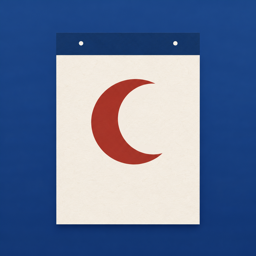
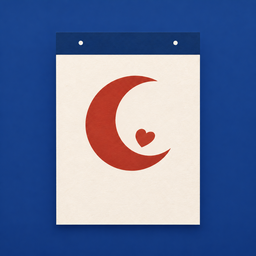
음력 기준(한국/대만·홍콩) 안내, 다국어 이름, 새 아이콘

Changed region(s): [[0.2188, 0.1562, 0.7812, 0.9062], [0.3125, 0.2812, 0.6562, 0.6875], [0.6562, 0.5625, 0.6875, 0.5938]]

diff --git a/index.html b/index.html
@@ -21,7 +21,7 @@
     </div>
   </header>
 
-  <p class="summary">음력 날짜를 한 번만 넣으면 매년 양력 날짜를 찾아 홈 화면 위젯과 알림으로 먼저 알려 드립니다. 광고·구독·회원가입이 없습니다.</p>
+  <p class="summary">Lunar Keeper · 旧暦メモ · 農曆知己 — 음력 날짜를 한 번만 넣으면 매년 양력 날짜를 찾아 홈 화면 위젯과 알림으로 먼저 알려 드립니다. 광고·구독·회원가입이 없습니다.</p>
 
   <h2>이렇게 써요</h2>
   <div class="card">
@@ -36,7 +36,9 @@
   <h2>자주 묻는 질문</h2>
   <dl>
     <dt>음력 날짜는 얼마나 정확한가요?</dt>
-    <dd>한국천문연구원 음양력 자료와 1940년부터 2050년까지 모든 날짜를 하나하나 대조했습니다. 계산은 인터넷 없이 휴대폰 안에서 합니다.</dd>
+    <dd>한국 음력은 한국천문연구원 자료와, 대만·홍콩 농력은 홍콩천문대 표와 1940년부터 2050년까지 모든 날짜를 하나하나 대조했습니다. 계산은 인터넷 없이 휴대폰 안에서 합니다.</dd>
+    <dt>한국 음력과 대만·홍콩 농력이 다르다던데요?</dt>
+    <dd>몇십 년에 한두 달씩 하루가 다릅니다(예: 2027년 설은 한국 2월 7일, 대만·홍콩 2월 6일). 설정 &gt; 음력 기준에서 가족이 쓰는 달력을 고르세요. 중국어(번체)로 쓰시면 처음부터 대만·홍콩 기준입니다.</dd>
     <dt>음력 30일인데 올해는 그 달이 29일까지예요.</dt>
     <dd>그믐(29일)로 당겨서 챙깁니다. 화면에 「29일로 챙겨요」라고 함께 보여 드립니다.</dd>
     <dt>윤달에 태어나셨어요(돌아가셨어요).</dt>
